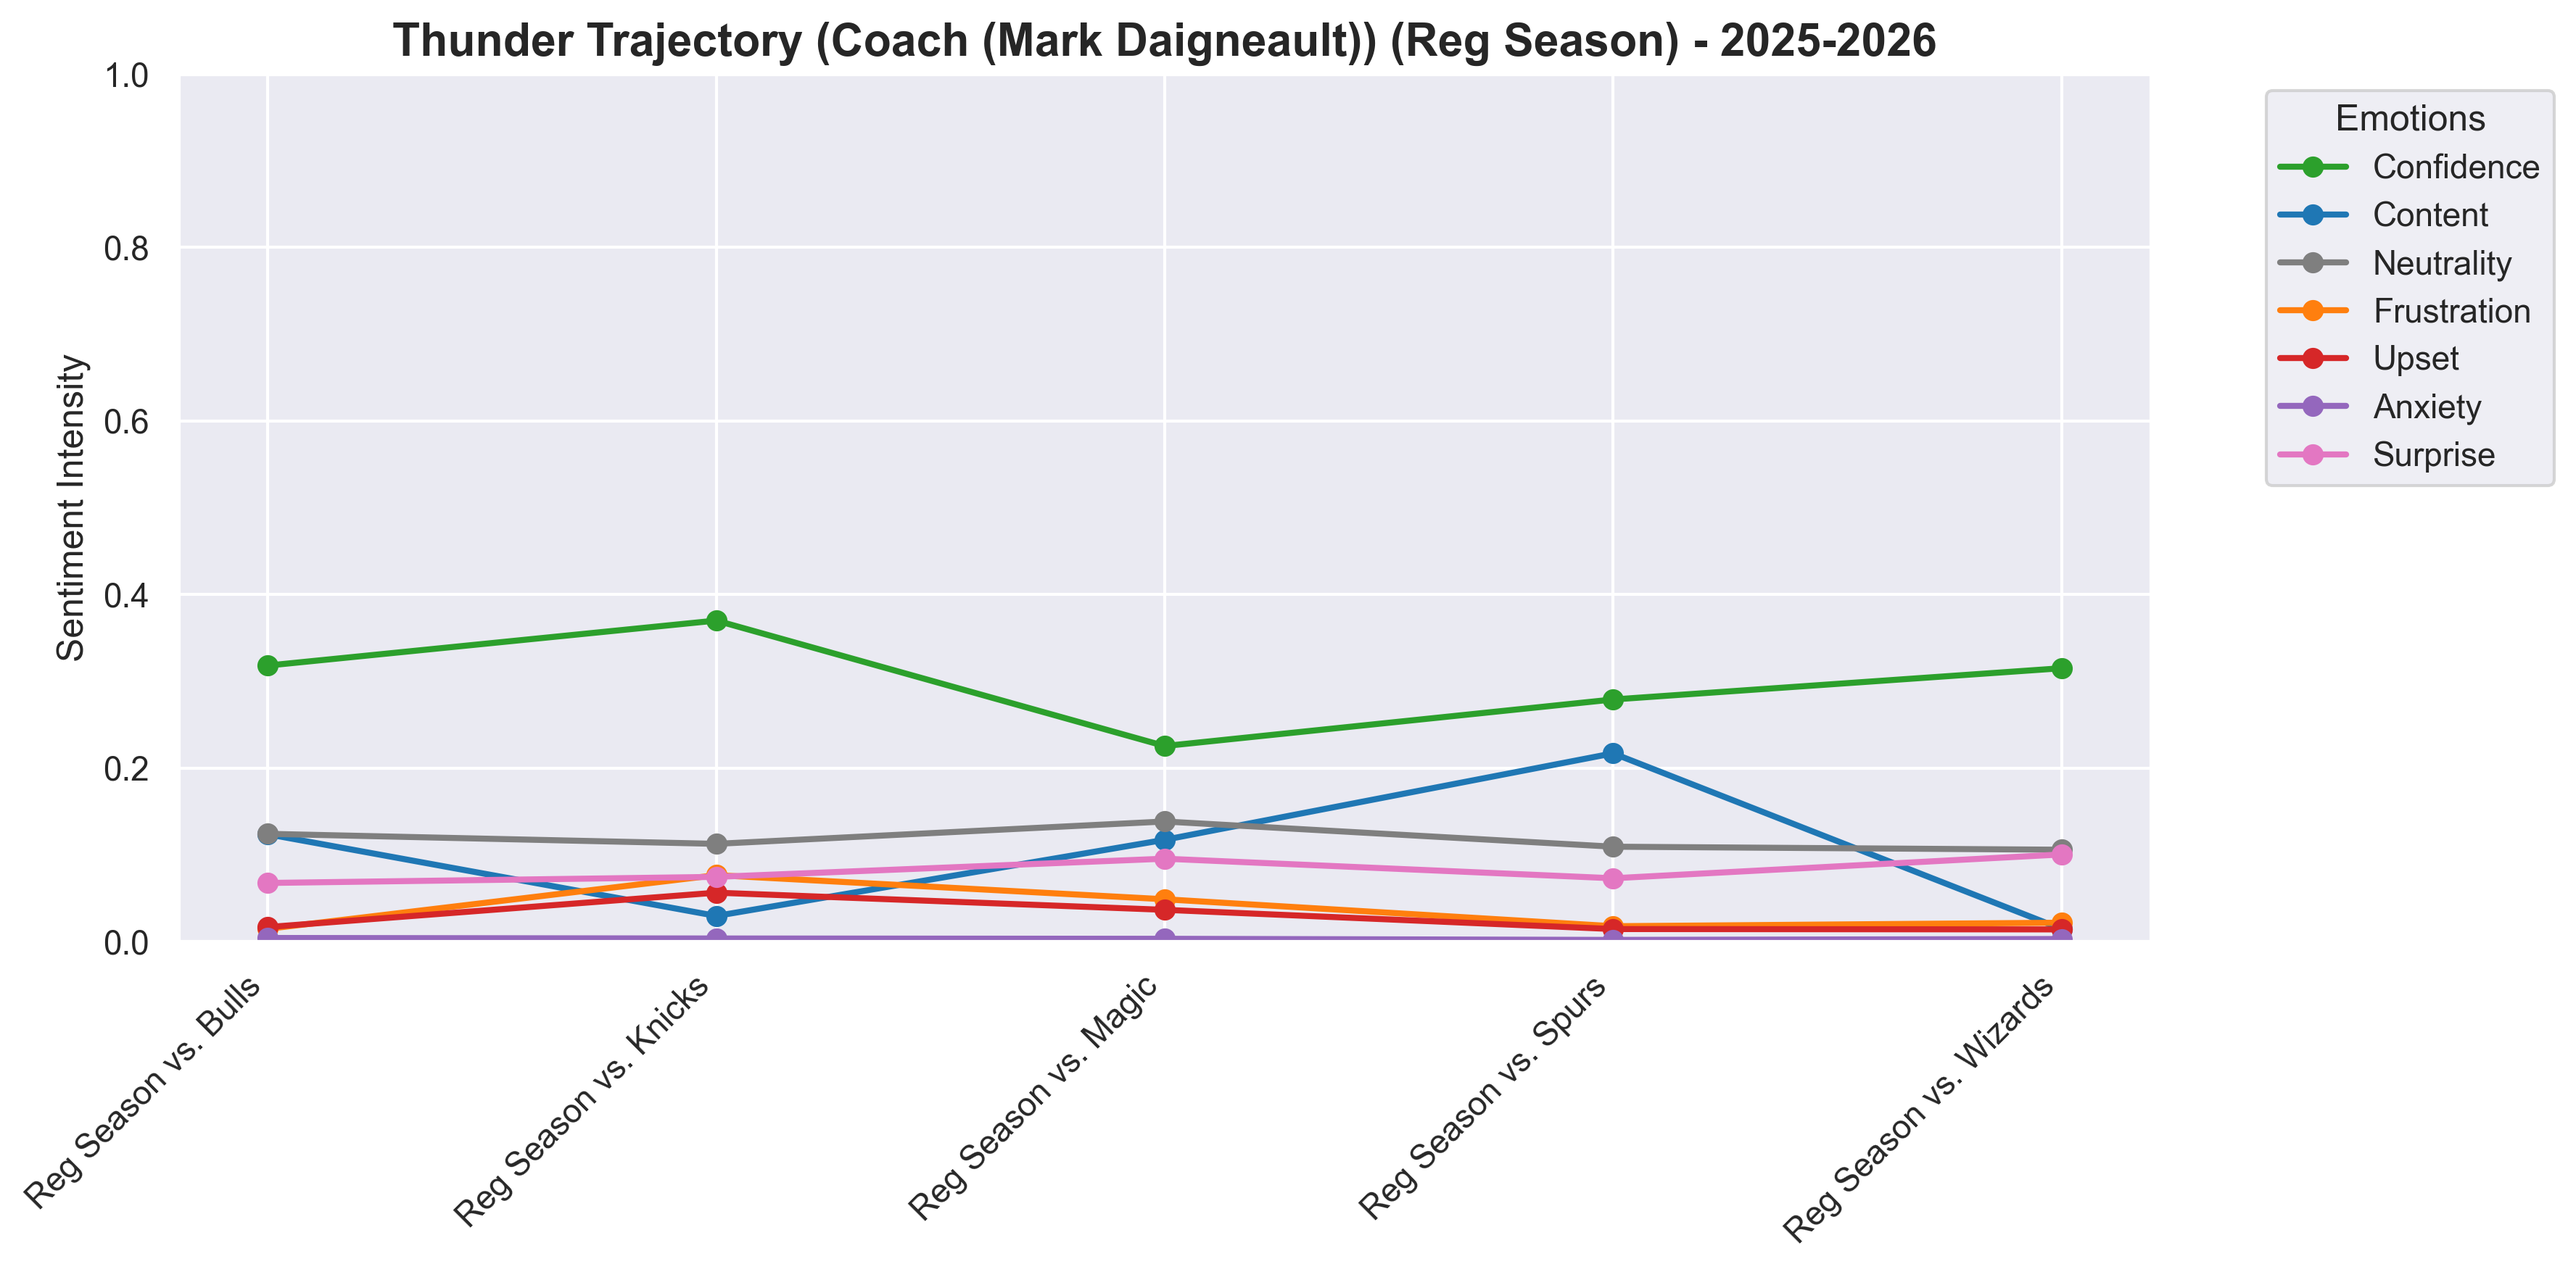
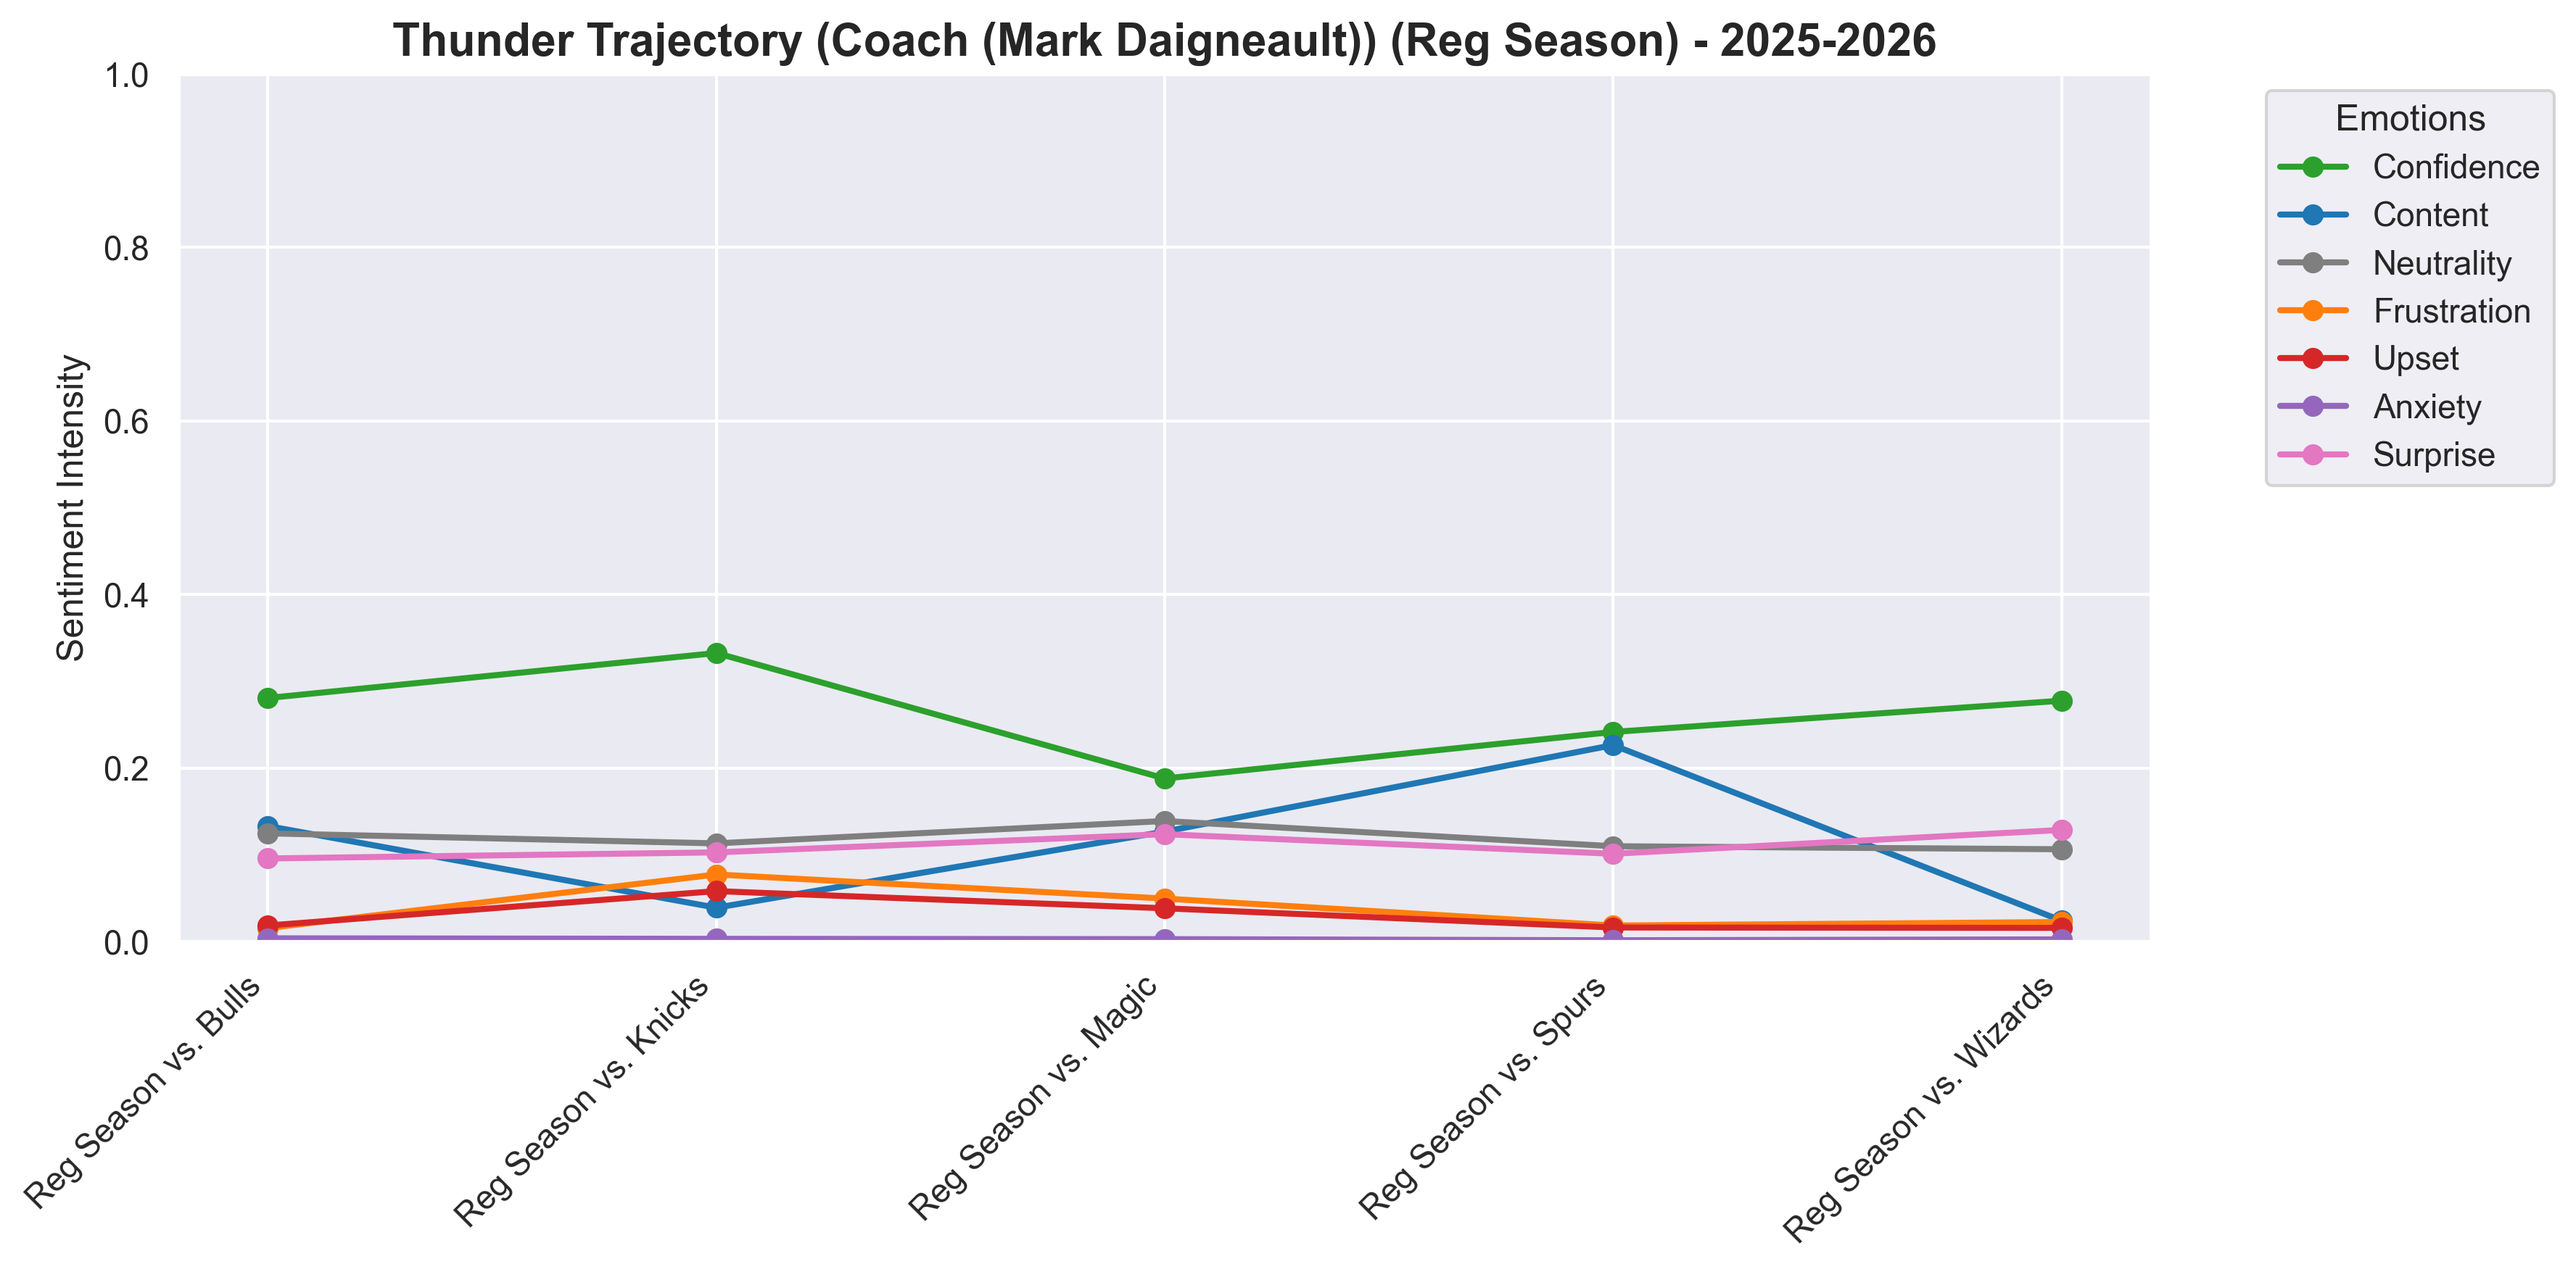
Updated regular season visualizations

Changed region(s): [[0.0938, 0.4615, 0.8125, 0.7385]]

diff --git a/scripts/visualization.py b/scripts/visualization.py
@@ -74,7 +74,7 @@ class EmotionVisualizer:
         else:
             return f"{stage_str} vs. {meta['team']}"
 
-    def plot_concise_trajectories(self, df, team_name, season_label="2023-2024", output_folder="historical"):
+    def plot_concise_trajectories(self, df, team_name, season_label="2023-2024", output_folder="historical", reference_df=None):
         logging.info(f"Extracting visual indexes for {team_name} mapping down to {output_folder}...")
         out_dir, asset_dir = self._ensure_directories(output_folder)
         
@@ -92,24 +92,50 @@ class EmotionVisualizer:
         sorted_timeline_df = team_data.sort_values(by=['stage'])
         master_stages = sorted_timeline_df['stage'].drop_duplicates().tolist()
 
-        # DYNAMIC RE-ENGINEERING: Factor in ALL 4 roles to build a robust aggregate profile
+        # Master aggregate baseline
         agg_grouped = team_data.groupby('stage', sort=False)[emotions].mean().reindex(master_stages)
         agg_grouped = agg_grouped.interpolate(method='linear', limit_direction='both')
 
+        # DYNAMIC PLAYOFF-ANCHORED IMPUTATION
+        if reference_df is None:
+            reference_df = df
+            
+        full_team_data = reference_df[reference_df['team'] == team_name]
+        role_offsets = {r: {e: 0.0 for e in emotions} for r in roles}
+        
+        # Calculate the historical deviation of each role from the team aggregate
+        ref_agg = full_team_data[full_team_data['role'] == 'aggregate'][emotions].mean()
+        for r in ['coach', 'star', 'teammate']:
+            r_data = full_team_data[full_team_data['role'] == r]
+            if not r_data.empty and not pd.isna(ref_agg).all():
+                r_mean = r_data[emotions].mean()
+                for e in emotions:
+                    offset = r_mean[e] - ref_agg[e]
+                    if not pd.isna(offset):
+                        # Scale the offset slightly so it introduces variance without blowing out the regular season scale
+                        role_offsets[r][e] = offset * 0.75 
+
         for role in roles:
-            if (role == "aggregate"):
+            if role == "aggregate":
                 interp_df = agg_grouped.copy()
             else:
                 working_df = team_data[team_data['role'] == role].copy().sort_values(by=['stage'])
-                raw_grouped = working_df.groupby('stage', sort=False)[emotions].mean()
-                interp_df = raw_grouped.reindex(master_stages)
                 
-                # Fallback imputation: if a specific role is completely missing a stage, mirror the computed aggregate
-                for stage in master_stages:
-                    if (pd.isna(interp_df.loc[stage]).all() == True) and (stage in agg_grouped.index):
-                        interp_df.loc[stage] = agg_grouped.loc[stage]
+                if working_df.empty:
+                    # Impute mathematically grounded variance using the calculated historical offsets
+                    interp_df = agg_grouped.copy()
+                    for emotion in emotions:
+                        offset = role_offsets[role].get(emotion, 0.0)
+                        interp_df[emotion] = (interp_df[emotion] + offset).clip(0.0, 1.0)
+                else:
+                    raw_grouped = working_df.groupby('stage', sort=False)[emotions].mean()
+                    interp_df = raw_grouped.reindex(master_stages)
+                    
+                    for stage in master_stages:
+                        if pd.isna(interp_df.loc[stage]).all() and not pd.isna(agg_grouped.loc[stage]).all():
+                            interp_df.loc[stage] = agg_grouped.loc[stage]
                 
-                interp_df = interp_df.interpolate(method='linear', limit_direction='both')
+            interp_df = interp_df.interpolate(method='linear', limit_direction='both')
             
             final_labels = []
             for stage_idx in interp_df.index:

diff --git a/scripts/graph_live_2026.py b/scripts/graph_live_2026.py
@@ -4,7 +4,6 @@ import logging
 from scripts.visualization import EmotionVisualizer
 
 if (__name__ == "__main__"):
-    # Fix the workspace path mismatch to point directly to your live data tree
     scored_path = "data/live_2026/scored_2025_2026.csv"
     
     if (os.path.exists(scored_path) == False):
@@ -18,7 +17,7 @@ if (__name__ == "__main__"):
         
         teams = ["Spurs", "Knicks", "Cavaliers", "Thunder"]
         
-        # 1. Map all 4 Playoff Trajectories using the aggregate fallback algorithm
+        # 1. Map all 4 Playoff Trajectories
         logging.info("--- Mapping 2026 Playoff Trajectories ---")
         for team in teams:
             visualizer.plot_concise_trajectories(
@@ -28,17 +27,18 @@ if (__name__ == "__main__"):
                 output_folder="live_2026"
             )
             
-        # 2. Map all 4 Regular Season metrics paths
+        # 2. Map all 4 Regular Season metrics paths with true historical imputation
         logging.info("--- Mapping 2026 Regular Season Trajectories ---")
         for team in teams:
             visualizer.plot_concise_trajectories(
                 reg_season_df, 
                 team_name=team, 
                 season_label="2025-2026_RegSeason", 
-                output_folder="live_2026"
+                output_folder="live_2026",
+                reference_df=df
             )
             
-        # 3. Generate a Pre-Matchup comparison bar chart for the pending finalists
+        # 3. Generate a Pre-Matchup comparison bar chart
         logging.info("--- Generating Spurs vs. Knicks Pre-Matchup Analysis ---")
         visualizer.plot_finals_comparison_bar(
             playoff_df, 
@@ -50,7 +50,7 @@ if (__name__ == "__main__"):
             file_prefix="combined_pre_matchup"
         )
         
-        # 4. Generate the WCF bracket bar charts
+        # 4. Generate WCF bracket bar charts
         logging.info("--- Generating Western Conference Finals Bracket Map (Spurs vs. Thunder) ---")
         visualizer.plot_finals_comparison_bar(
             playoff_df, 
@@ -62,7 +62,7 @@ if (__name__ == "__main__"):
             file_prefix="wcf_matchup"
         )
         
-        # 5. Generate the ECF bracket bar charts
+        # 5. Generate ECF bracket bar charts
         logging.info("--- Generating Eastern Conference Finals Bracket Map (Knicks vs. Cavaliers) ---")
         visualizer.plot_finals_comparison_bar(
             playoff_df, 
